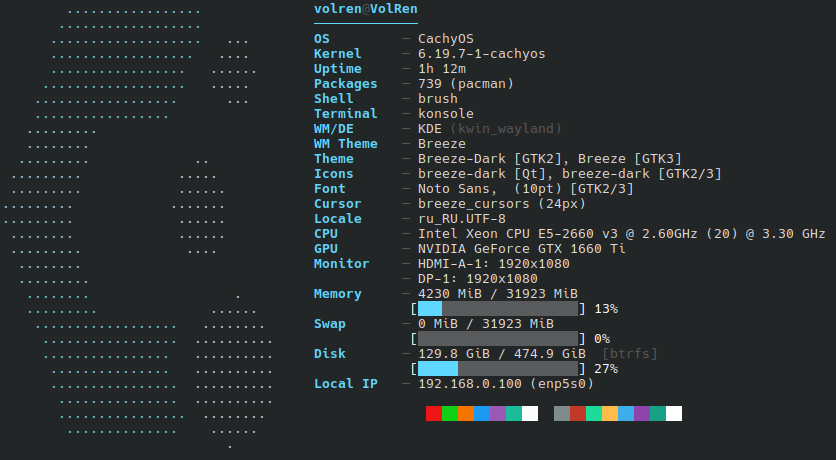
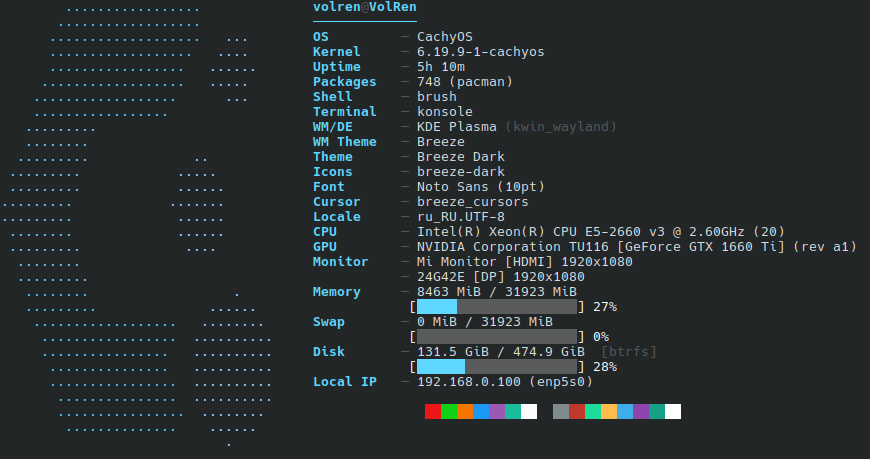
Update.

diff --git a/README.md b/README.md
@@ -1,52 +1,77 @@
 # cachyfetch
 
-A fast and minimal system info fetcher written in [Zig](https://ziglang.org), built specifically for **CachyOS**.
+A fast and minimal system information fetcher written in [Zig](https://ziglang.org) and built with **CachyOS** in mind.
 
-![Screenshot 1](assets/cachyfetch.png)
+![cachyfetch screenshot](assets/cachyfetch.png)
 
 ## Features
 
-- OS, Kernel, Uptime, Packages
-- Shell, Terminal emulator
-- DE, WM, WM Theme, Theme (Qt + GTK2/3), Icons, Font, Cursor
-- Locale, Local IP
-- CPU with frequency
-- GPU (NVIDIA via `nvidia-smi`, AMD/Intel via `lspci`)
-- Monitor resolution and refresh rate (Hyprland, X11, DRM fallback)
-- Memory, Swap, Disk with progress bars and filesystem type
-- 16-color palette
+- CachyOS ASCII logo with compact colored output
+- User/host, OS, kernel, uptime, and package count
+- Shell and terminal detection
+- DE/WM detection for KDE Plasma, GNOME, Hyprland, Sway, and niri
+- WM theme, GTK/KDE theme, icons, font, and cursor detection
+- CPU, GPU, monitor, memory, swap, disk, locale, and local IP info
+- Progress bars for memory, swap, and disk usage
+- 16-color palette preview
 
-## Installation
+## Quick start
 
-### Manual
+### Build
 
 ```bash
-git clone https://github.com/VolRencs/cachyfetch
-cd cachyfetch
-zig build -Doptimize=ReleaseFast -Dtarget=x86_64-linux -Dcpu=baseline
-sudo install -Dm755 zig-out/bin/cachyfetch /usr/bin/cachyfetch
+zig build -Doptimize=ReleaseFast
+```
+
+### Run
+
+```bash
+zig build run
+```
+
+Or run the built binary directly:
+
+```bash
+./zig-out/bin/cachyfetch
+```
+
+### Install
+
+```bash
+zig build -Doptimize=ReleaseFast
+sudo install -Dm755 zig-out/bin/cachyfetch /usr/local/bin/cachyfetch
 ```
 
 ## Requirements
 
-**Build:**
-- `zig` ≥ 0.15.0
+### Build
 
-**Runtime (all optional):**
-- `pciutils` — GPU name detection via `lspci`
-- `nvidia-utils` — NVIDIA GPU name via `nvidia-smi`
-- `xorg-xrandr` — monitor detection on X11
+- `zig` 0.15.0 or newer
+
+### Runtime
+
+These tools are optional and are only used when available:
+
+- `pacman` for package counting
+- `lspci` from `pciutils` for GPU detection
+- `ip` from `iproute2` for local IP detection
+- `gsettings` from `glib2` for GTK/GNOME theme, icon, and font detection
+
+## Notes
+
+- `cachyfetch` is Linux-only and reads data from `/proc`, `/sys`, desktop config files, and optional system utilities.
+- KDE Plasma theme information is read directly from files in `~/.config`.
+- When a command or desktop-specific source is unavailable, the corresponding field falls back to `unknown`.
 
 ## Project structure
 
-```
+```text
 cachyfetch/
 ├── src/
-│   ├── main.zig    # rendering, output
-│   └── fetch.zig   # system info collection
+│   ├── main.zig   # output rendering and layout
+│   └── core.zig   # system information collection
 ├── build.zig
-├── build.zig.zon
-└── PKGBUILD
+└── build.zig.zon
 ```
 
 ## License
